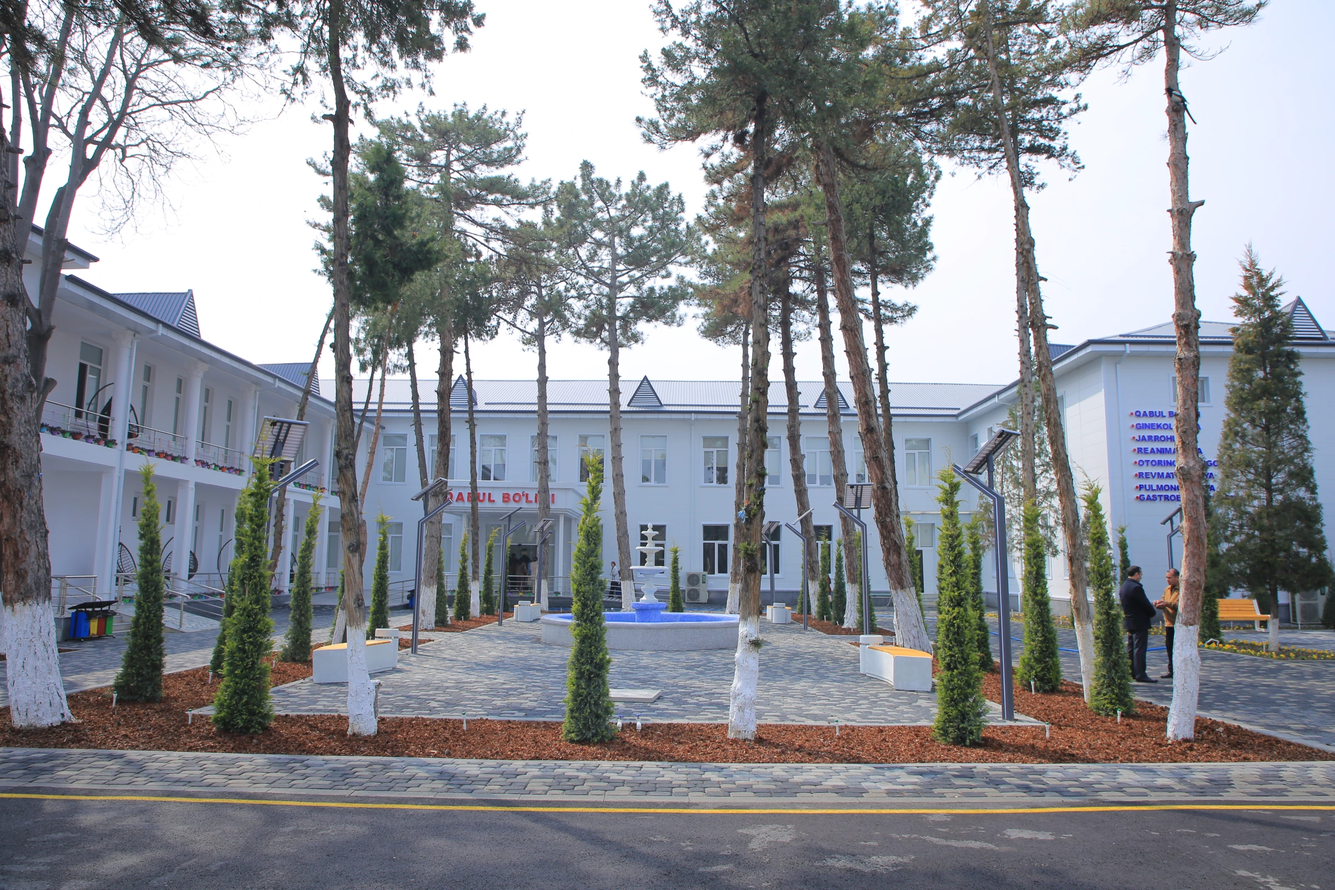
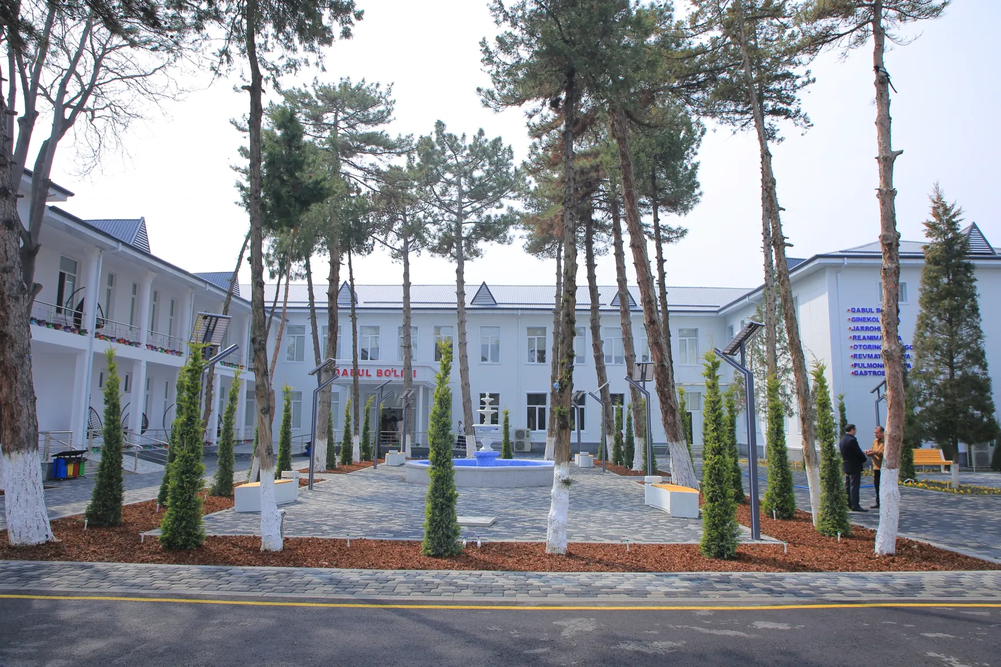
Fix Chrome/Brave scroll jank and slow-loading clinic hero images
- Drop the filter (blur/hue-rotate) animation from the scroll-linked
  hc-care-light keyframes in home-care.css. animation-timeline: view()
  only runs in Chromium browsers (Chrome/Brave/Edge), and animating
  `filter` forces a per-frame repaint instead of a cheap compositor-only
  transform/opacity animation — this was the main source of scroll jank
  reported specifically on Chrome/Brave. The light-orb effect still
  works via transform+opacity; the blur is now static.

- Re-encode the Clinic page's courtyard hero images to their actual
  display size (~1400x680 max) instead of shipping full 2400x1600
  originals: courtyard-day.webp 1.24MB -> 399KB, courtyard-evening.webp
  588KB -> 256KB. These loaded with fetchPriority="high" as the first
  visible content on /clinic, so the oversized files were visibly
  painting in top-to-bottom bands as they streamed in.

diff --git a/src/styles/home-care.css b/src/styles/home-care.css
@@ -3716,17 +3716,14 @@ a.hc-card:active {
   0% {
     opacity: 0.08;
     transform: translate3d(0, -8%, 0) scale(0.76);
-    filter: blur(18px) hue-rotate(0deg);
   }
   48% {
     opacity: 0.38;
     transform: translate3d(78vw, 10%, 0) scale(1.06);
-    filter: blur(12px) hue-rotate(42deg);
   }
   100% {
     opacity: 0.1;
     transform: translate3d(24vw, 24%, 0) scale(0.84);
-    filter: blur(20px) hue-rotate(92deg);
   }
 }
 
